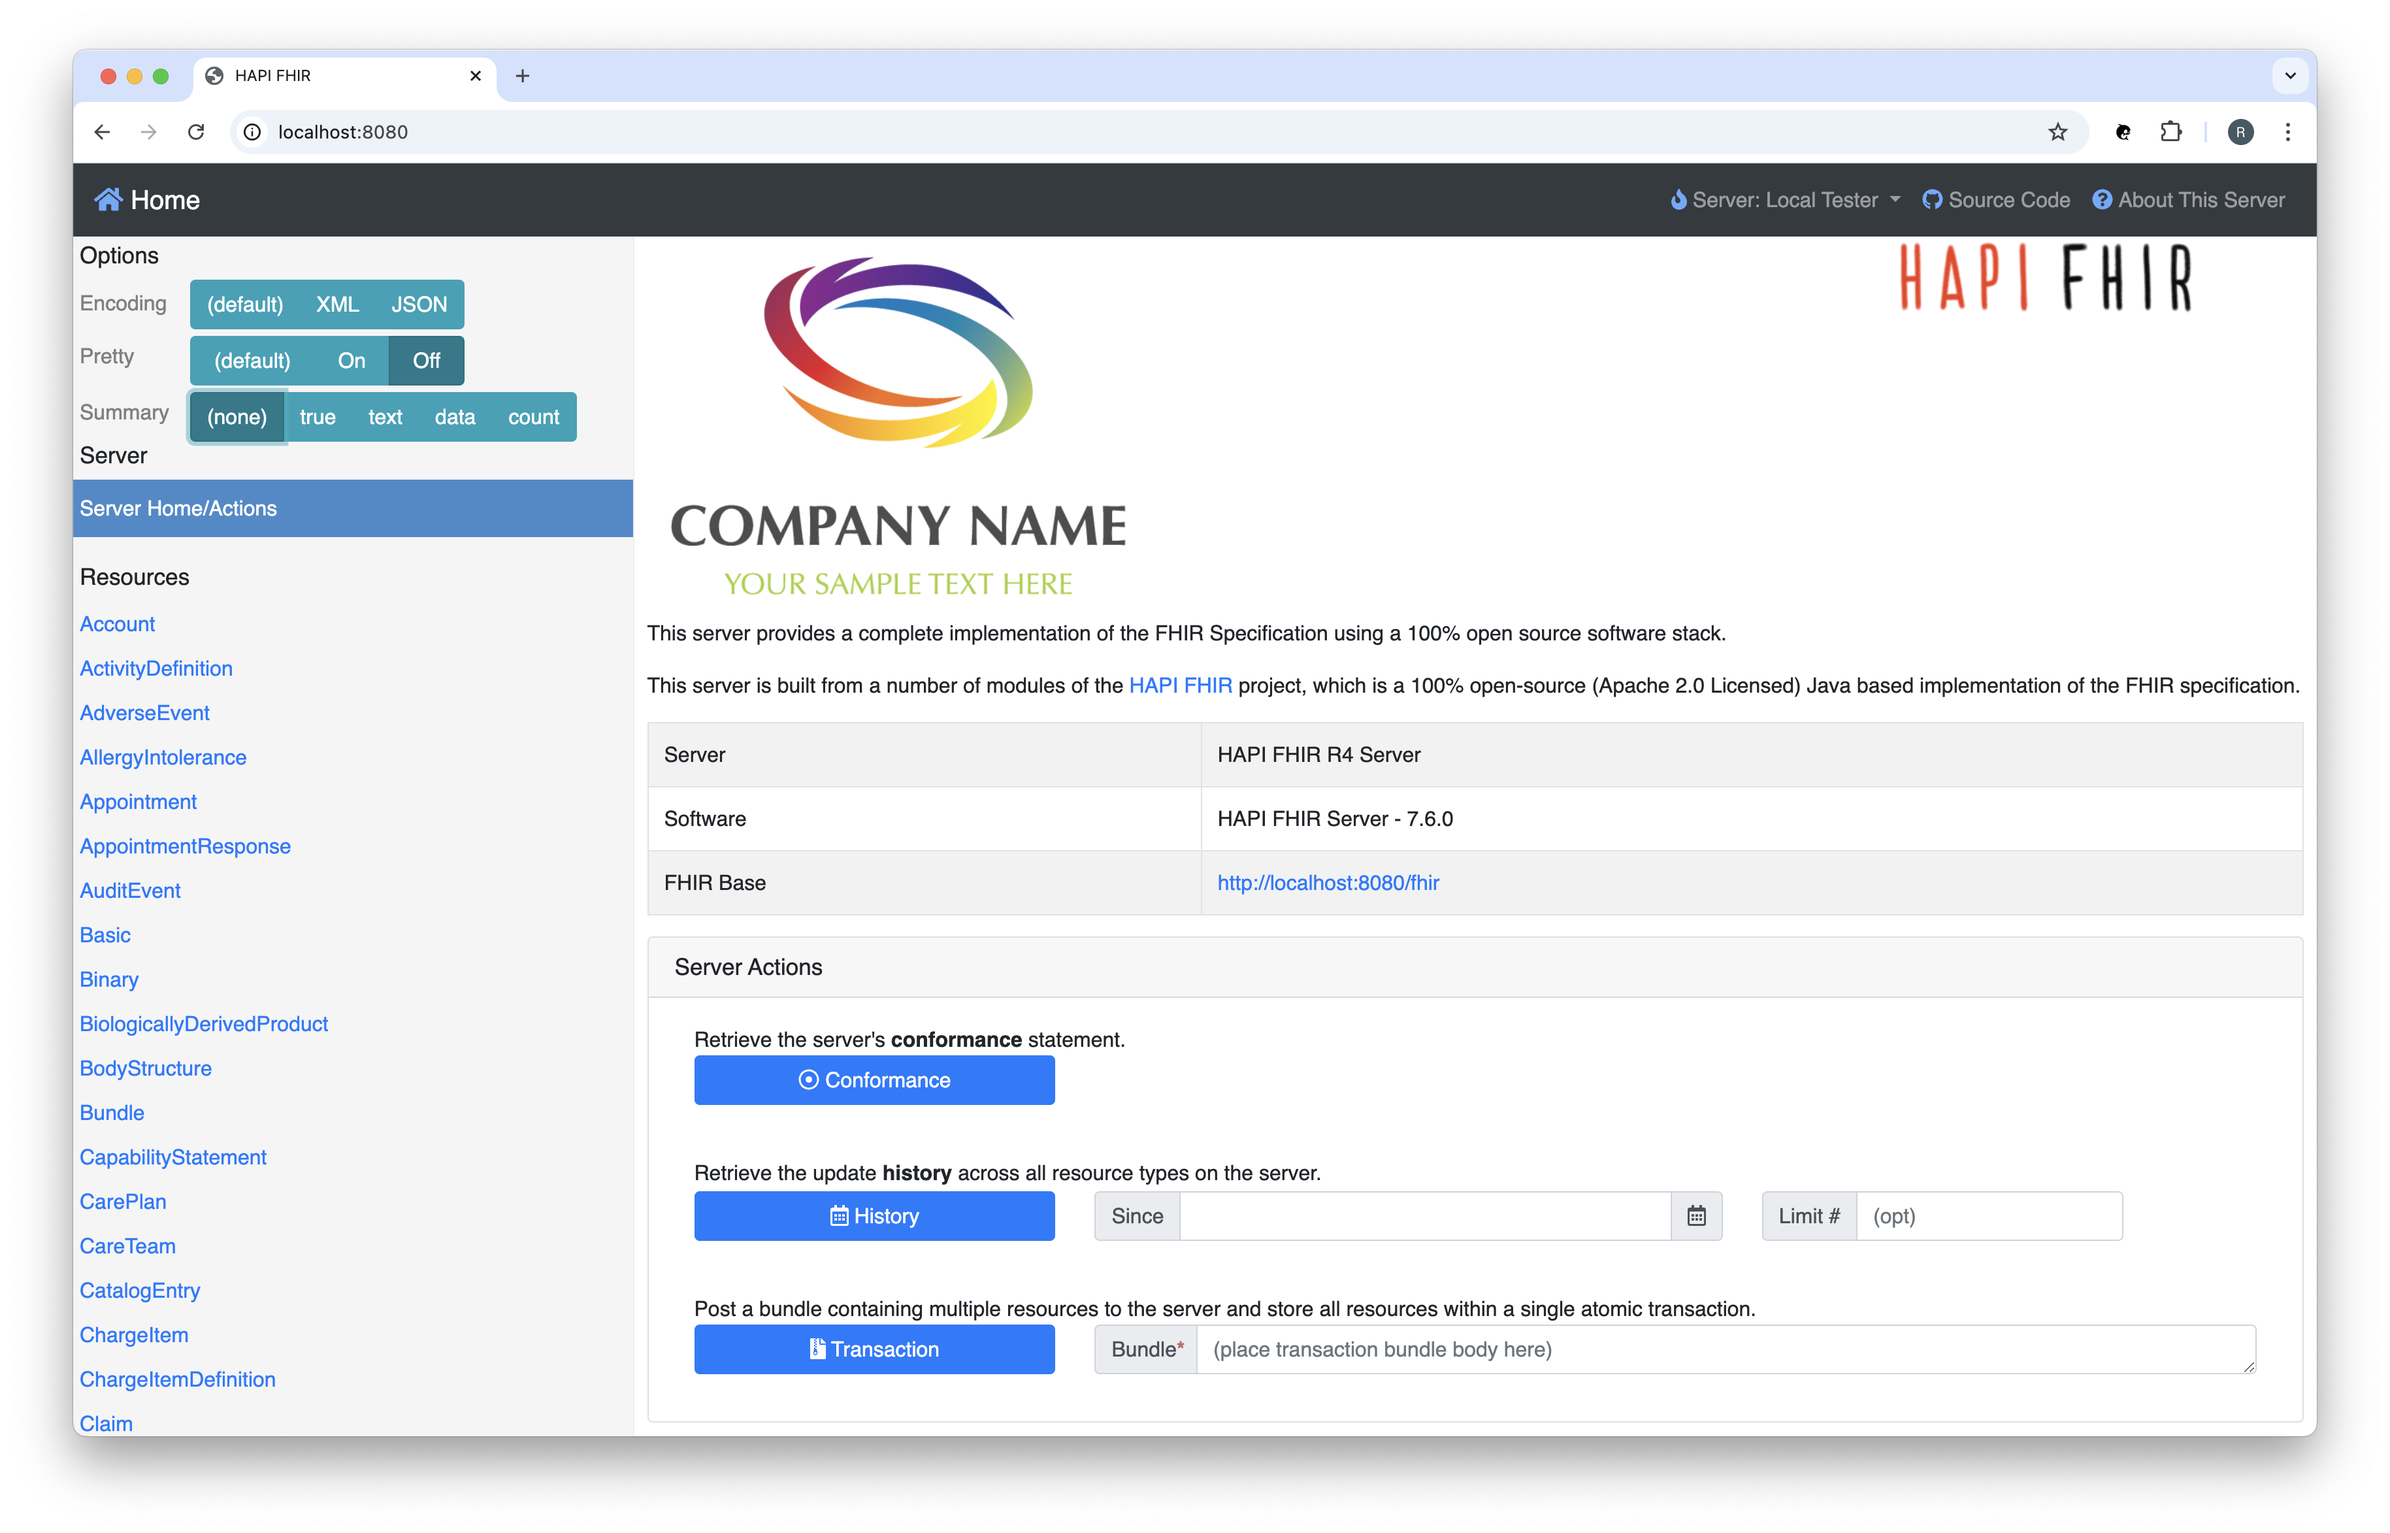
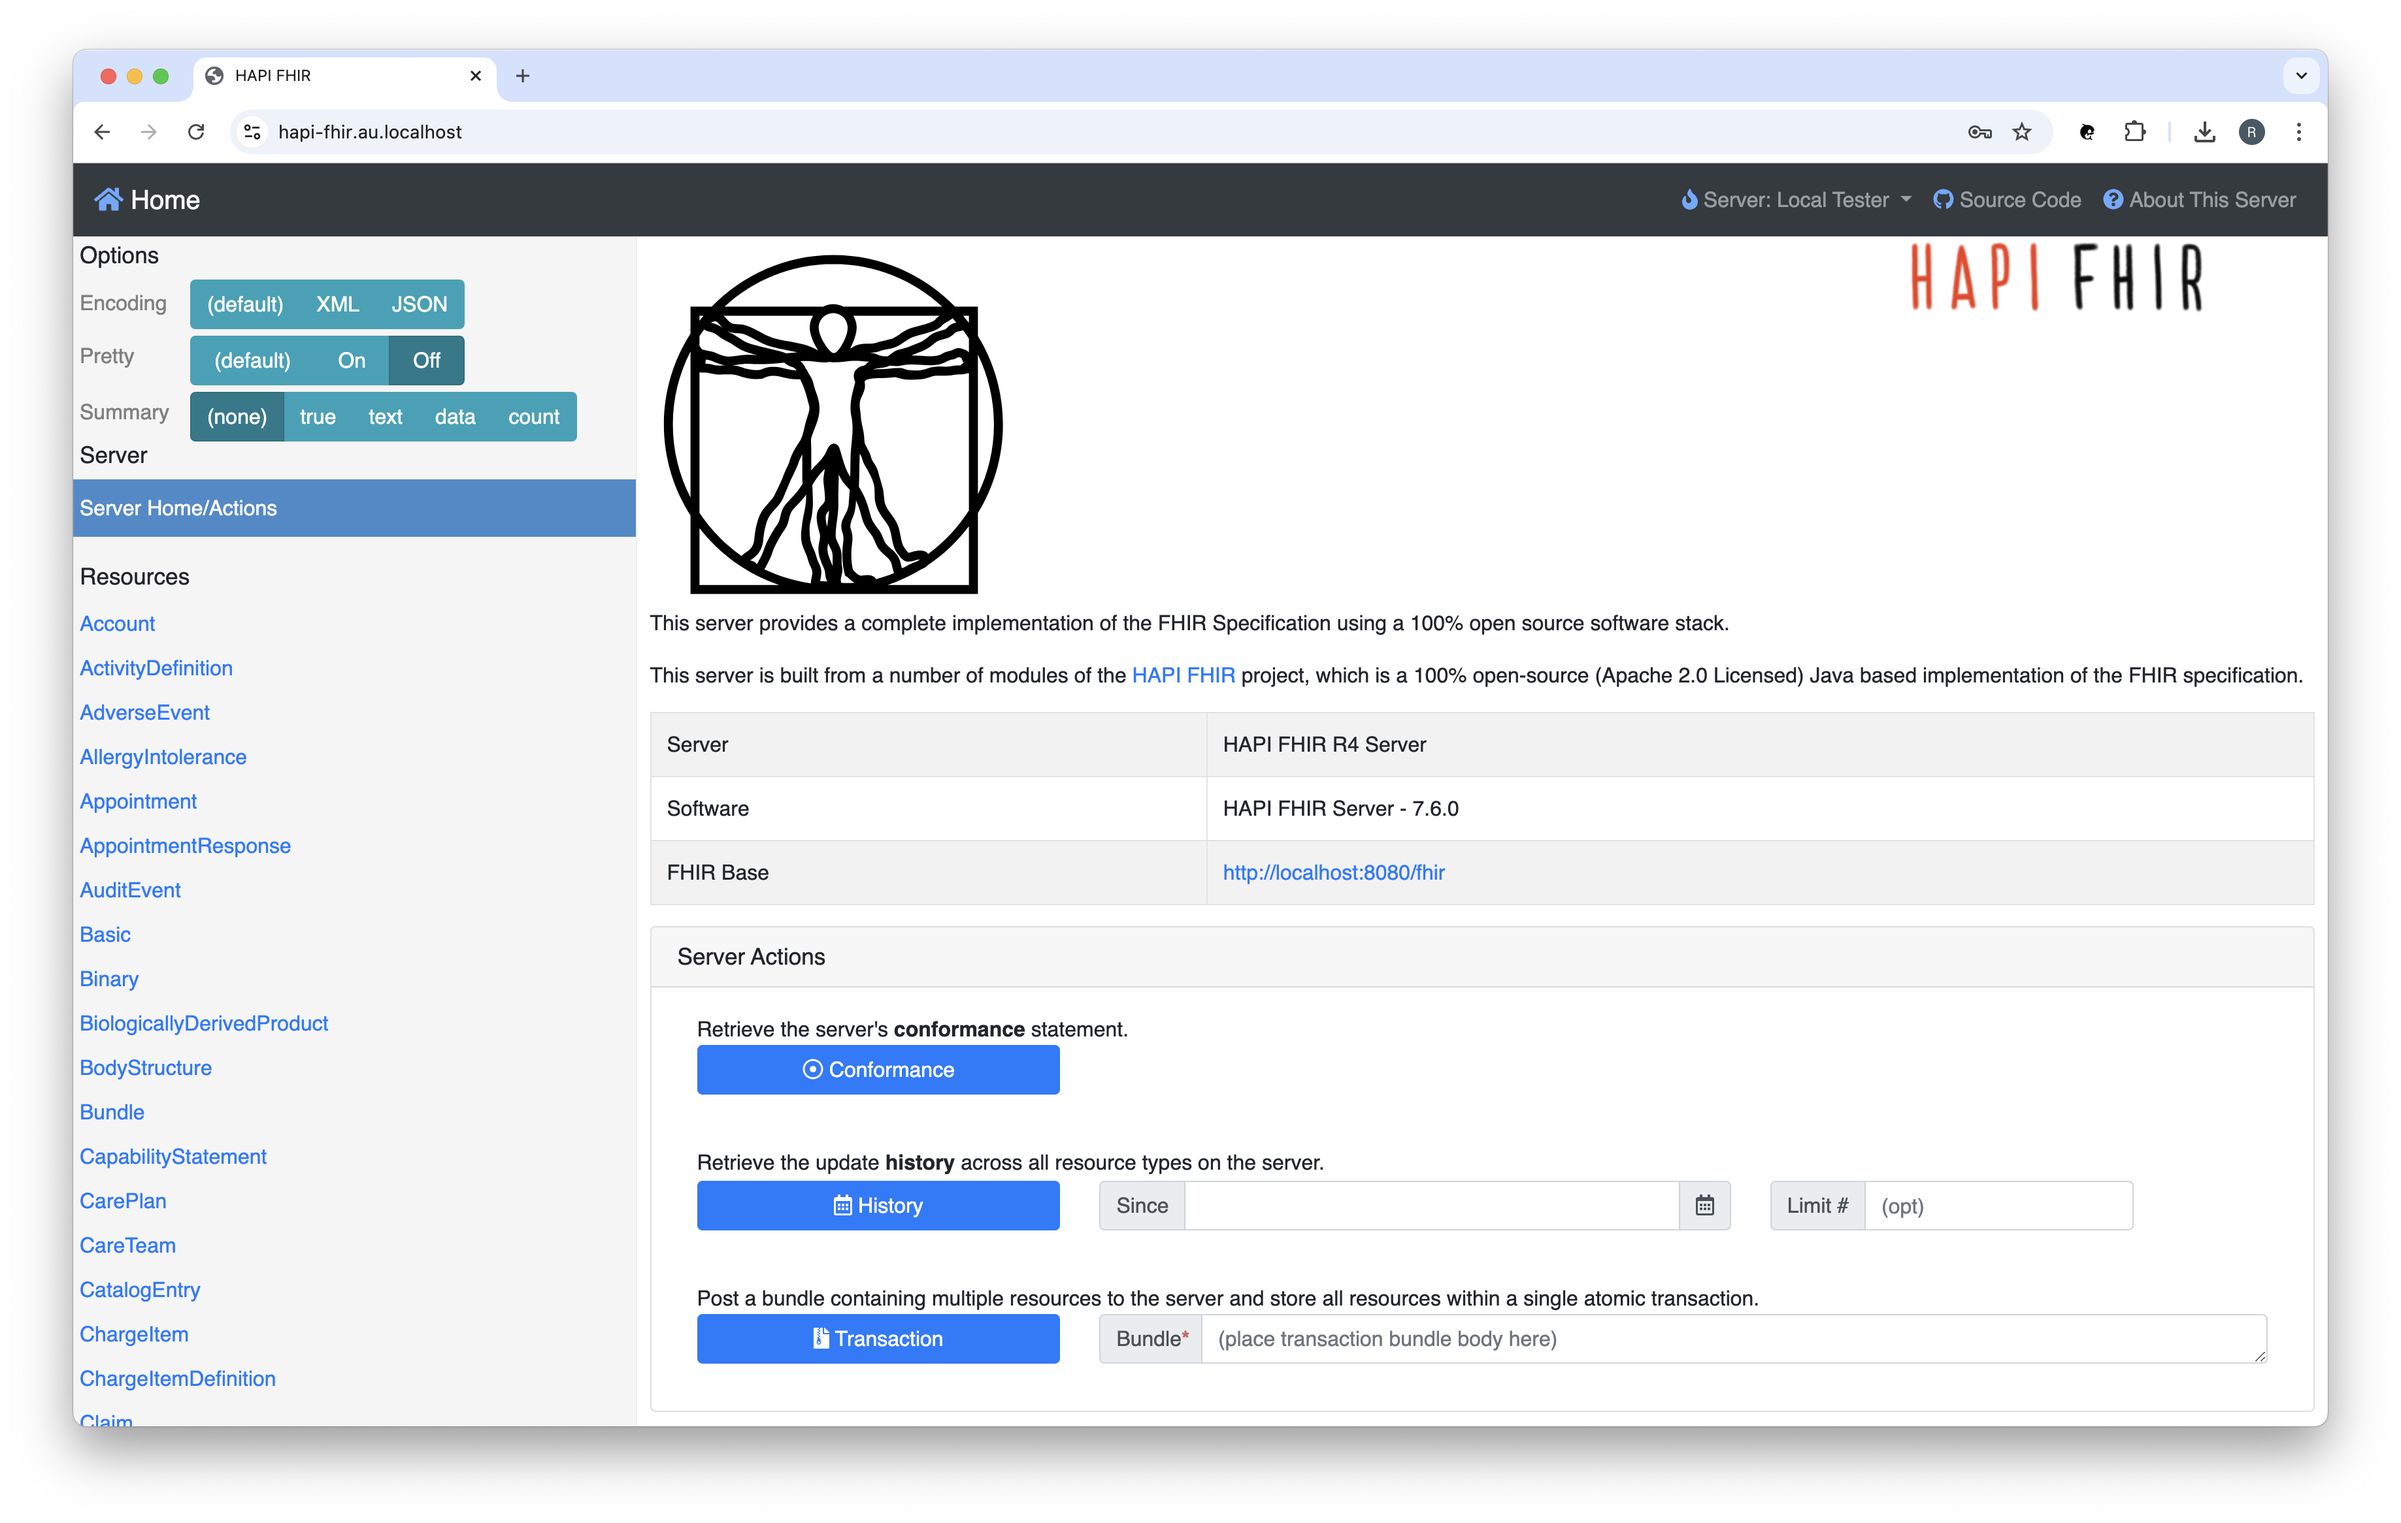
Updated README.md

diff --git a/README.md b/README.md
@@ -43,9 +43,9 @@ cd ~/workspace/hapi-fhir-au/backend
 docker compose up
 ```
 
-**Note:** Docker Compose will look for a `.env` file in the current working directory.
+**Note:** Docker Compose will look for an `.env` file in the current working directory.
 
-To navigate to the HAPI FHIR **Welcome** page:
+Sign in:
 
 ```
 https://hapi-fhir.au.localhost
@@ -54,7 +54,21 @@ https://hapi-fhir.au.localhost
 You should see something like:
 
 <p align="center">
-  <img src="./docs/quick-start-guide/hapi-fhir-welcome-page.png" alt="Welcome page"/>
+  <img src="./docs/quick-start-guide/oauth2-proxy-sign-in.png" alt="Sign in with OpenID Connect"/>
+</p>
+
+Click the 'Sign in with OpenID Connect' button:
+
+<p align="center">
+  <img src="./docs/quick-start-guide/keycloak-sign-in.png" alt="Sign in with your Keycloak Account"/>
+</p>
+
+Enter your username and password then click the Sign in button:
+
+You should see something like:
+
+<p align="center">
+  <img src="./docs/quick-start-guide/hapi-fhir-welcome-page.png" alt="HAPI FHIR Welcome page"/>
 </p>
 
 To navigate to the Keycloak Admin console:
@@ -74,6 +88,13 @@ Navigate to the Keycloak Account Console:
 ```
 https://keycloak:8443/realms/hapi-fhir-dev/account
 ```
+
+You should see something like:
+
+<p align="center">
+  <img src="./docs/quick-start-guide/keycloak-account-welcome-page.png" alt="Welcome page"/>
+</p>
+
 
 To stop the services:
 

diff --git a/backend/docs/developer/mkcert.md b/backend/docs/developer/mkcert.md
@@ -32,14 +32,16 @@ The local CA is now installed in the system trust store! ⚡
 The local CA is now installed in the Firefox trust store (requires browser restart)! 🦊
 ```
 
-Use `mkcert` to generate a key and a certificate for the hostname `hapi-fhir.au.localhost`:
+Use `mkcert` to generate a key and a certificate for the hostnames:
+- `hapi-fhir.au.localhost`
+- `keycloak`
 
 ```
 mkcert -key-file key.pem -cert-file cert.pem hapi-fhir.au.localhost
 mkcert -key-file keycloak-key.pem -cert-file keycloak-cert.pem keycloak
 ```
 
-Move the files into the \backend\certs directory and set the file permissions:
+Move the files into the `\backend\certs` directory and set the file permissions:
 
 ```
 sudo chmod 655 ./certs/*
@@ -53,7 +55,7 @@ Update your `/etc/hosts` file:
 sudo nano /etc/hosts
 ```
 
-Add the hostname:
+Add the hostnames:
 
 ```
 127.0.0.1 localhost hapi-fhir.au.localhost keycloak
